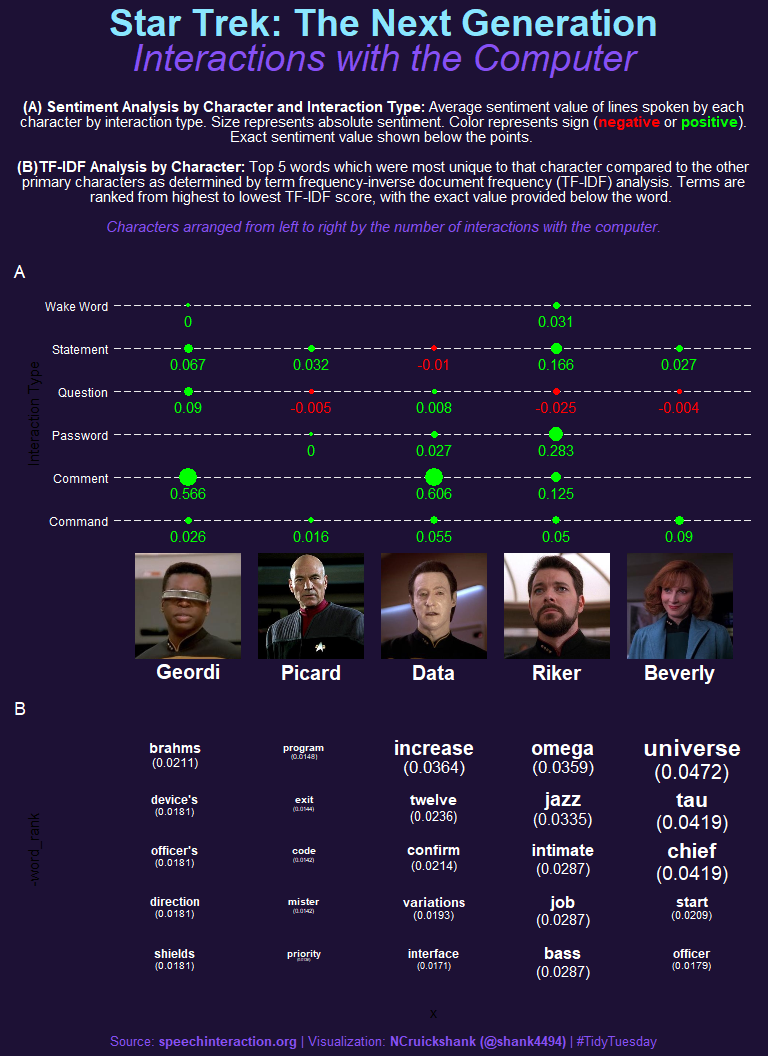
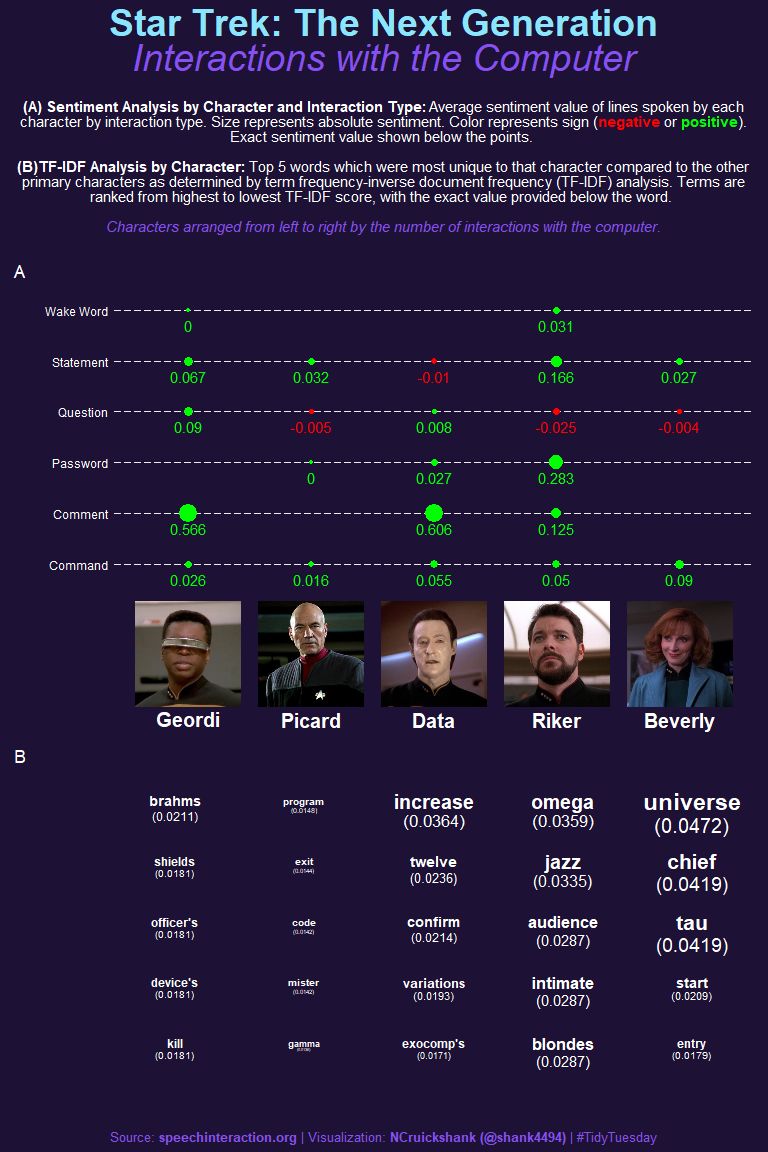
reknit after noticing error in axis labels
didn't want axis labels, but they were showing up as black on a dark purple background

diff --git a/2021/20210817 - Star Trek Commands/20210817---Star-Trek-Commands.md b/2021/20210817 - Star Trek Commands/20210817---Star-Trek-Commands.md
@@ -124,7 +124,7 @@ sent_plot <- char_sent2 %>%
   scale_color_manual(values = c("Red", "Green")) + 
   scale_x_discrete(name = NULL, labels = labels) +
   guides(size = "none", color = "none") +
-  labs(y = "Interaction Type") + 
+  labs(y = "") + 
   theme_minimal() + 
   theme(
     plot.background = element_rect(fill = "#1D1135", color = "#1D1135"),
@@ -174,6 +174,7 @@ tf_idf_plot <- top_char_tf_idf %>%
   guides(size = "none") +
   scale_y_discrete(breaks = c(1:6)) +
   facet_wrap(~ factor(char, levels = top_characters), ncol = 5) + 
+  labs(y = "", x = "") +
   theme_minimal() + 
   theme(
     plot.background = element_rect(fill = "#1D1135", color = "#1D1135"),
